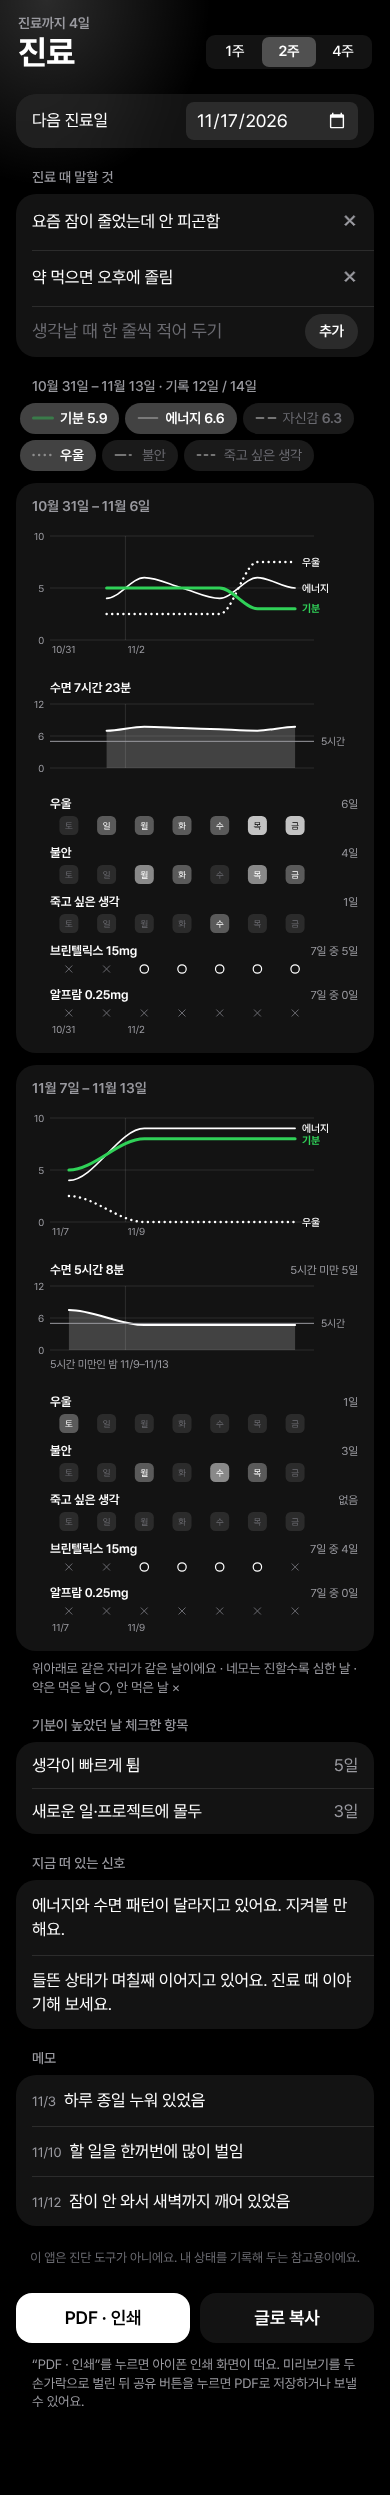
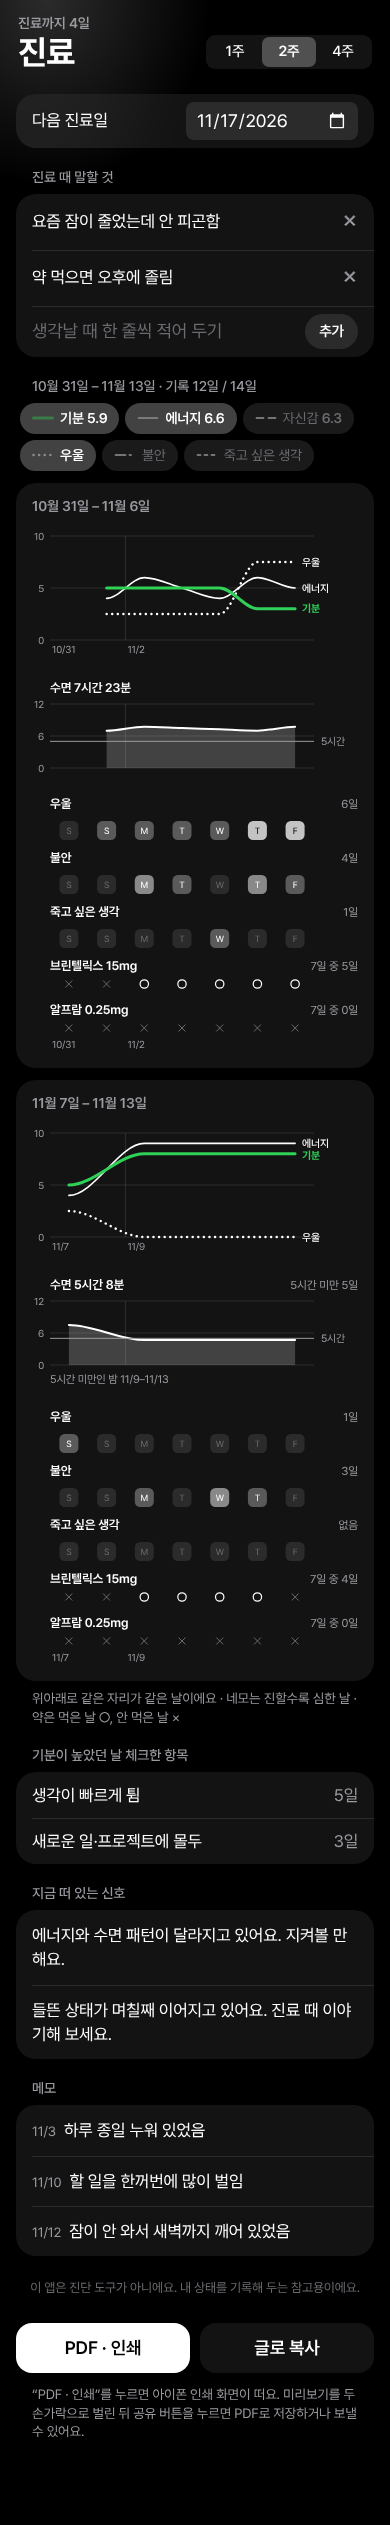
Tide: English weekday letters in the symptom squares, more room under the names
The squares always show S M T W T F S (asked for in English, one letter), and sit a little lower so they do not crowd the symptom name above.

Claude-Session: https://claude.ai/code/session_01Du4KAy7crrN67i73oW7iBF

diff --git a/mood/js/views/clinic.js b/mood/js/views/clinic.js
@@ -1,7 +1,7 @@
 // 진료 화면: 다음 진료일, 진료 때 말할 것, 진료용 요약 (최근 2주/4주를 한 장으로)
 import { SHORT_SLEEP, summary } from '../analysis.js';
 import { DISCLAIMER, LEVELS, SYMPTOMS } from '../constants.js';
-import { WD, durText, md, parse, today } from '../dates.js';
+import { durText, md, parse, today } from '../dates.js';
 import { app, esc } from '../dom.js';
 import { F, T } from '../i18n.js';
 import { medKey, medsFor } from '../meds.js';
@@ -124,18 +124,17 @@ function figures(s, width, SH) {
   }
   const sleep = take('sum-sleep', y);
 
-  // 3. 증상: 날마다 요일이 적힌 네모 한 칸, 그런 날은 색칠 (단계가 높을수록 진하게). 위 그래프와 같은 날짜 자리에 놓인다.
-  //    칸이 좁으면(4주) 요일 글자는 뺀다.
-  const sq = Math.max(4, Math.min(col - 2, 19)), wd = WD();
+  // 3. 증상: 날마다 요일(영어 한 글자, 사용자가 고름)이 적힌 네모 한 칸, 그런 날은 색칠 (단계가 높을수록 진하게). 위 그래프와 같은 날짜 자리에 놓인다.
+  const sq = Math.max(4, Math.min(col - 2, 19));
   SYMPTOMS.filter(([k]) => itemOn(k)).forEach(([k, name]) => {
     const count = s.days.filter((e) => e && e[k]).length;
     head(name, count ? F('{0}일', count) : T('없음'));
     s.dates.forEach((d, i) => {
-      const v = (s.days[i] && s.days[i][k]) || 0, x = cx(i) - sq / 2, top = y + 8;
+      const v = (s.days[i] && s.days[i][k]) || 0, x = cx(i) - sq / 2, top = y + 13;
       out += `<rect x="${x.toFixed(1)}" y="${top}" width="${sq.toFixed(1)}" height="${sq.toFixed(1)}" rx="${(sq * 0.28).toFixed(1)}" ${v ? `style="fill:var(--ink)" fill-opacity="${[0, 0.3, 0.5, 0.75, 1][v]}"` : 'class="c0"'}/>`;
-      if (sq >= 13) out += `<text x="${cx(i).toFixed(1)}" y="${(top + sq / 2 + 3.2).toFixed(1)}" text-anchor="middle" font-size="9" style="fill:${v >= 3 ? 'var(--ink-inv)' : v ? 'var(--text)' : 'var(--faint)'}">${wd[parse(d).getDay()][0]}</text>`;
+      out += `<text x="${cx(i).toFixed(1)}" y="${(top + sq / 2 + 3.2).toFixed(1)}" text-anchor="middle" font-size="9" style="fill:${v >= 3 ? 'var(--ink-inv)' : v ? 'var(--text)' : 'var(--faint)'}">${'SMTWTFS'[parse(d).getDay()]}</text>`;
     });
-    y += 8 + sq + 22;
+    y += 13 + sq + 22;
   });
 
   // 4. 약 · 생리: 얇은 선으로 먹은 날 ○, 안 먹은 날 ×

diff --git a/mood/sw.js b/mood/sw.js
@@ -1,7 +1,7 @@
 // 오프라인에서도 열리도록 앱 파일을 저장해 둔다.
 // 인터넷이 될 때는 항상 최신 파일을 먼저 받아오고, 안 될 때만 저장본을 쓴다.
 // 앱 파일을 바꿔서 올릴 때마다 CACHE 숫자를 하나 올린다. js/ 에 파일을 더하면 JS 목록에도 더한다.
-const CACHE = 'tide-v56';
+const CACHE = 'tide-v57';
 const JS = ['main', 'config', 'i18n', 'constants', 'store', 'dates', 'theme', 'icons', 'dom', 'state', 'meds', 'analysis', 'files', 'render', 'swipe', 'lock',
   'views/today', 'views/trend', 'views/insight', 'views/record', 'views/settings', 'views/clinic', 'views/notes'];
 const FILES = ['./', 'index.html', 'app.css', 'manifest.webmanifest',

diff --git a/mood/js/config.js b/mood/js/config.js
@@ -2,4 +2,4 @@
 export const KEY = 'tide.v1', OLD_KEY = 'harugyeol.v1';
 
 // 설정 화면 맨 아래에 보이는 번호. 올릴 때마다 sw.js의 CACHE 숫자와 같이 하나 올린다.
-export const VERSION = 56;
+export const VERSION = 57;
